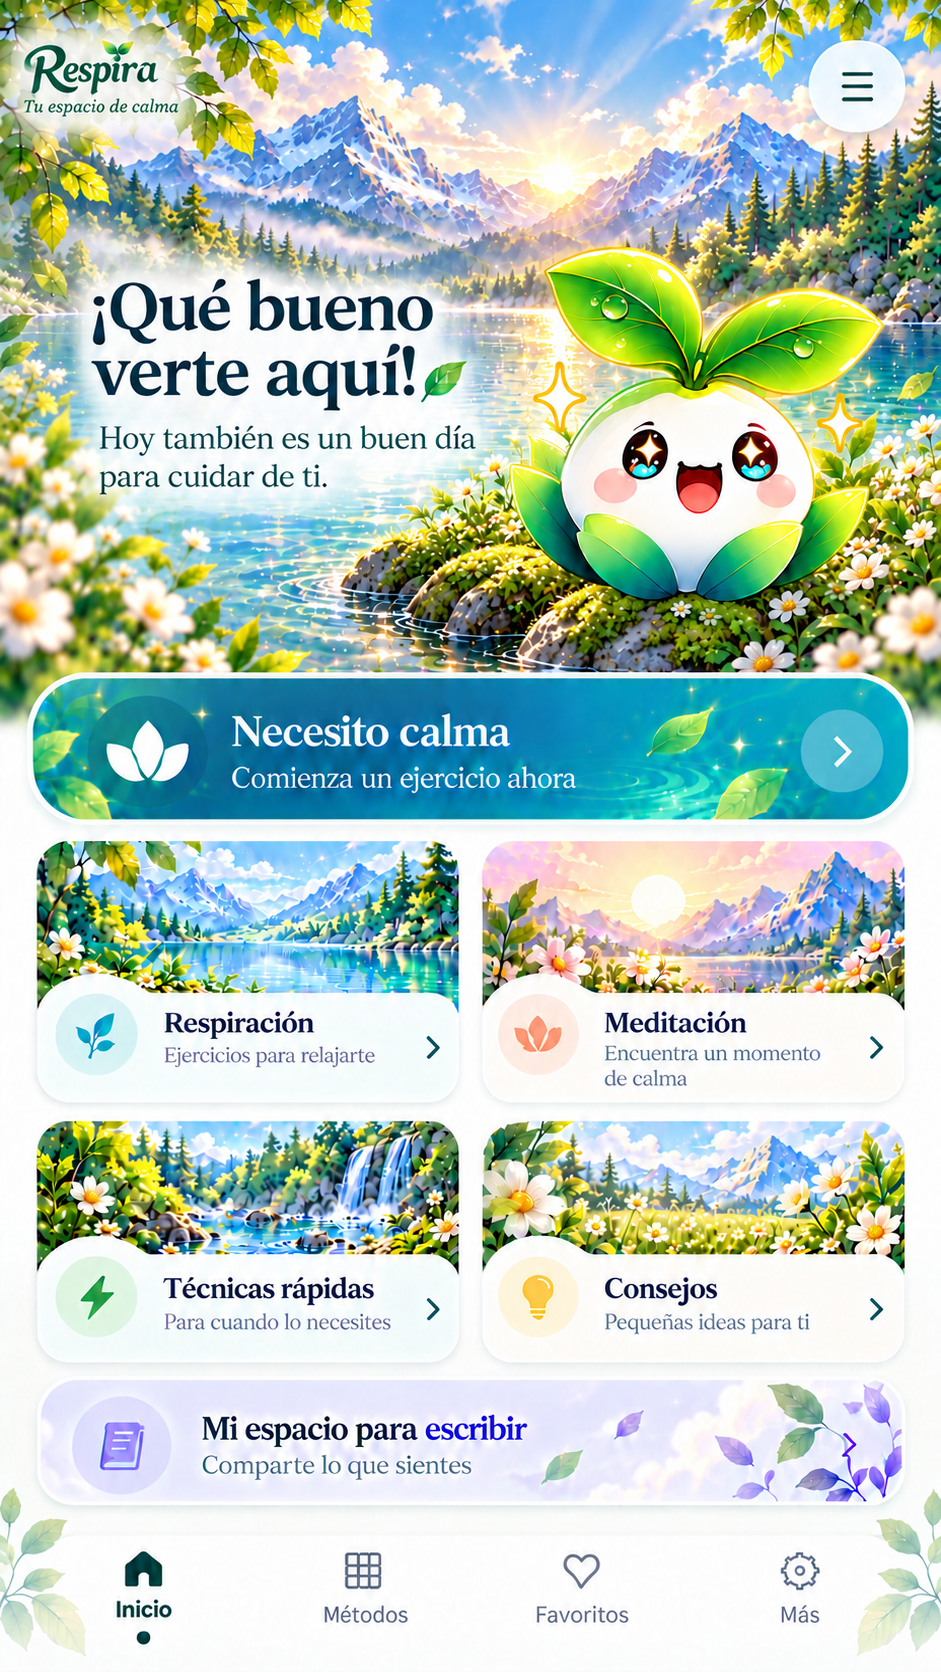
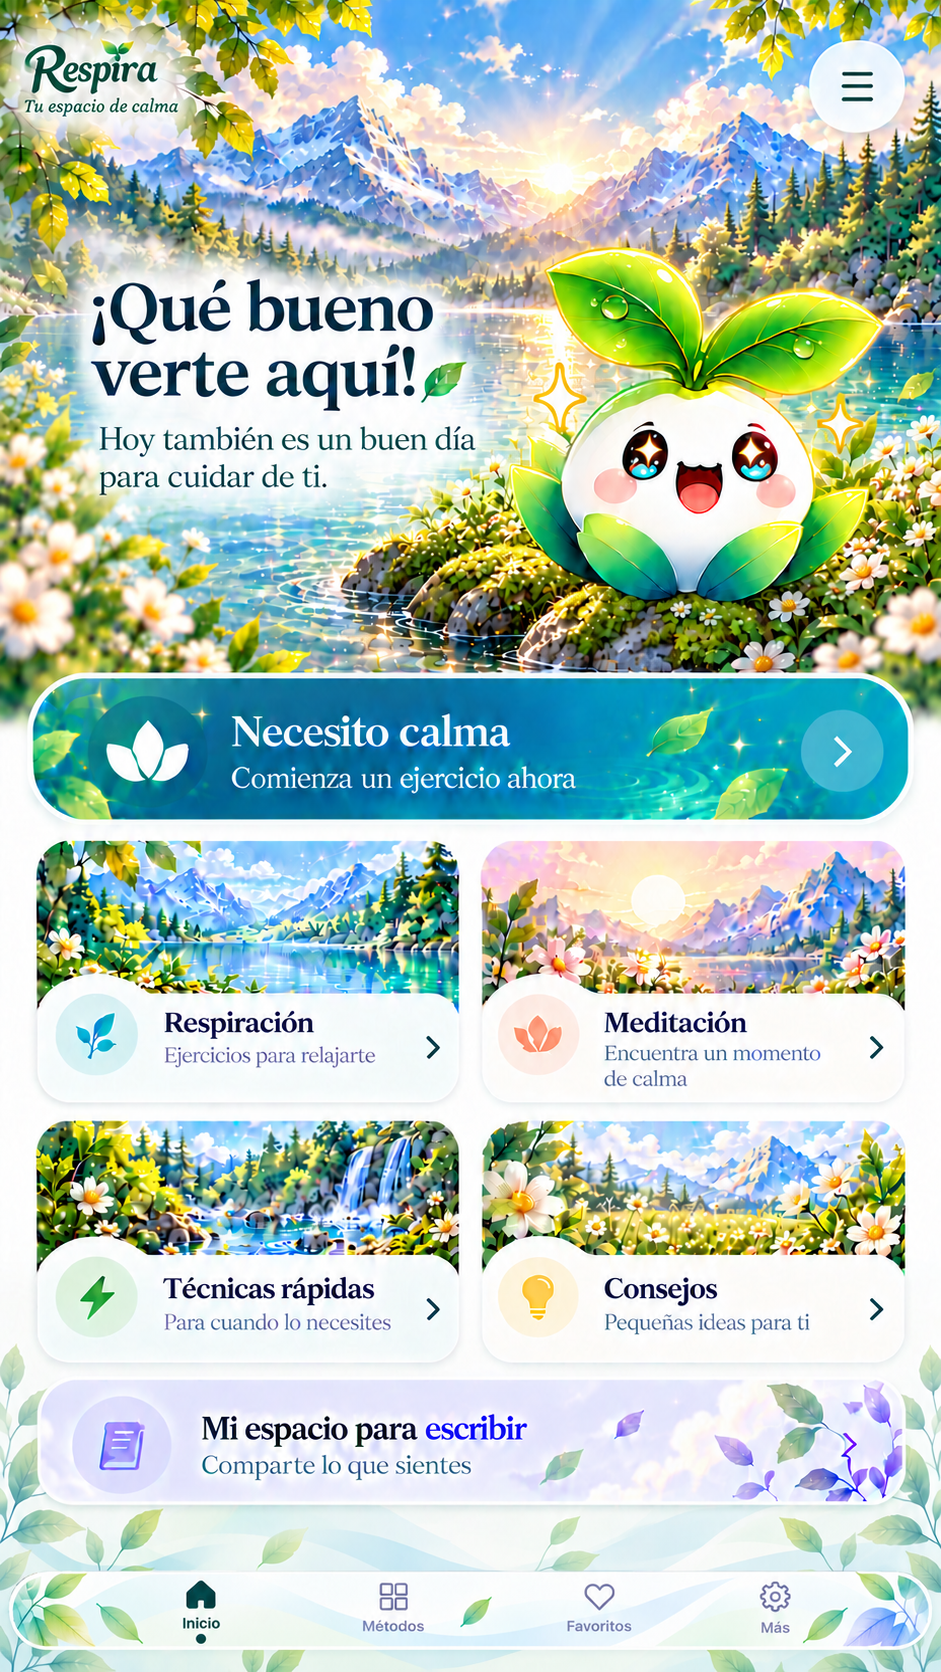
Respira v3.12

diff --git a/sw.js b/sw.js
@@ -1,5 +1,5 @@
-const CACHE='respira-3-12-nav-fija-esc-v1';
-const ASSETS=["./","./index.html","./style.css","./app.js","./manifest.webmanifest","./imagenes/portada/portada-aprobada.png","./imagenes/portada/hoja-izquierda.png","./imagenes/portada/hoja-derecha.png","./imagenes/seleccion/seleccion-aprobada.png","./imagenes/perfiles/brotecito.png","./imagenes/perfiles/nubecita.png","./imagenes/perfiles/lunita.png","./imagenes/perfiles/escena-brotecito.png","./imagenes/perfiles/escena-nubecita.png","./imagenes/perfiles/escena-lunita.png","./imagenes/inicio/brotecito.png","./imagenes/inicio/nubecita.png","./imagenes/inicio/lunita.png","./imagenes/inicio/sin-compania.png","./imagenes/inicio/fondo-inferior.webp","./imagenes/inicio/tarjeta-respiracion.png","./imagenes/inicio/tarjeta-meditacion.png","./imagenes/inicio/tarjeta-tecnicas.png","./imagenes/inicio/tarjeta-consejos.png","./imagenes/inicio/paisaje-sin-compania.svg","./imagenes/inicio/logo.svg","./iconos/icon-192.png","./iconos/icon-512.png","./imagenes/mascotas/brotecito.png","./imagenes/mascotas/nubecita.png","./imagenes/mascotas/lunita.png"];
+const CACHE='respira-3-13-inicio-barras-v1';
+const ASSETS=["./","./index.html","./style.css","./app.js","./manifest.webmanifest","./imagenes/portada/portada-aprobada.png","./imagenes/portada/hoja-izquierda.png","./imagenes/portada/hoja-derecha.png","./imagenes/seleccion/seleccion-aprobada.png","./imagenes/perfiles/brotecito.png","./imagenes/perfiles/nubecita.png","./imagenes/perfiles/lunita.png","./imagenes/perfiles/escena-brotecito.png","./imagenes/perfiles/escena-nubecita.png","./imagenes/perfiles/escena-lunita.png","./imagenes/navegacion/home.png","./imagenes/navegacion/methods.png","./imagenes/navegacion/favorites.png","./imagenes/navegacion/more.png","./imagenes/inicio/brotecito.png","./imagenes/inicio/nubecita.png","./imagenes/inicio/lunita.png","./imagenes/inicio/sin-compania.png","./imagenes/inicio/fondo-inferior.webp","./imagenes/inicio/tarjeta-respiracion.png","./imagenes/inicio/tarjeta-meditacion.png","./imagenes/inicio/tarjeta-tecnicas.png","./imagenes/inicio/tarjeta-consejos.png","./imagenes/inicio/paisaje-sin-compania.svg","./imagenes/inicio/logo.svg","./iconos/icon-192.png","./iconos/icon-512.png","./imagenes/mascotas/brotecito.png","./imagenes/mascotas/nubecita.png","./imagenes/mascotas/lunita.png"];
 self.addEventListener('install',e=>{e.waitUntil(caches.open(CACHE).then(c=>c.addAll(ASSETS)).then(()=>self.skipWaiting()))});
 self.addEventListener('activate',e=>{e.waitUntil(caches.keys().then(ns=>Promise.all(ns.filter(n=>n!==CACHE).map(n=>caches.delete(n)))).then(()=>self.clients.claim()))});
 self.addEventListener('fetch',e=>{if(e.request.method!=='GET'||new URL(e.request.url).origin!==self.location.origin)return;e.respondWith(caches.match(e.request).then(cached=>cached||fetch(e.request).then(resp=>{if(resp.ok){const cloned=resp.clone();caches.open(CACHE).then(c=>c.put(e.request,cloned))}return resp})))})

diff --git a/app.js b/app.js
@@ -79,7 +79,15 @@ document.addEventListener('keydown',event=>{
   navigate(prior.view,prior.activeId,true);
 });
 function backhead(title){return `<div class="backhead"><button class="iconbtn" data-go="methods" aria-label="Volver">‹</button><strong>${safe(title)}</strong></div>`}
-function bottom(active){return `<nav class="bottomnav" aria-label="Navegación principal">${[['home','⌂','Inicio'],['methods','▦','Métodos'],['favorites','♡','Favoritos'],['more','···','Más']].map(([id,ic,t])=>`<button class="navitem ${active===id?'active':''}" data-go="${id}" ${active===id?'aria-current="page"':''}><span class="navicon">${ic}</span>${t}</button>`).join('')}</nav>`}
+function bottom(active){
+  // Cuatro imágenes oficiales: mismo diseño, solo cambia la sección resaltada.
+  const tabs=[['home','Inicio'],['methods','Métodos'],['favorites','Favoritos'],['more','Más']];
+  const selected=['home','methods','favorites','more'].includes(active)?active:'home';
+  return `<nav class="bottomnav respira-tabbar" aria-label="Navegación principal">
+    <img class="respira-tabbar-image" src="./imagenes/navegacion/${selected}.png" alt="" aria-hidden="true" draggable="false">
+    ${tabs.map(([id,label])=>`<button type="button" class="navitem ${id===selected?'active':''}" data-go="${id}" aria-label="${label}" ${id===selected?'aria-current="page"':''}><span class="sr-only">${label}</span></button>`).join('')}
+  </nav>`;
+}
 function item(id){const x=catalog[id],fav=getStore('favorites',[]).includes(id);return `<div class="listbtn" style="cursor:default"><button class="round" data-open="${id}" aria-label="Abrir ${safe(x.title)}" style="border:0;background:var(--unused,#e6f7fc)">${x.emoji}</button><button class="copy" data-open="${id}" style="border:0;background:none;text-align:left;color:inherit;padding:0"><strong>${safe(x.title)}</strong><small>${safe(x.sub)}</small></button><button class="iconbtn ${fav?'heart':''}" data-fav="${id}" aria-label="${fav?'Quitar de':'Añadir a'} favoritos: ${safe(x.title)}">${fav?'♥':'♡'}</button><button class="iconbtn" data-open="${id}" aria-label="Abrir">›</button></div>`}
 function render(){let html='';
 if(view==='welcome'){
@@ -117,7 +125,7 @@ if(view==='home'){
     ['home40-nav-favorites','data-go="favorites"','Favoritos'],
     ['home40-nav-more','data-go="more"','Más opciones']
   ];
-  html=`<main class="home40-page" aria-label="Inicio de Respira${cp?`, con ${safe(pets[cp].name)}`:', sin mascota elegida'}">
+  html=`<main class="home40-page ${cp?'home40-haspet':'home40-nopet'}" aria-label="Inicio de Respira${cp?`, con ${safe(pets[cp].name)}`:', sin mascota elegida'}">
     <div class="home40-artboard">
       <img class="home40-art" src="${homeImage}" width="941" height="1672" alt="" aria-hidden="true" draggable="false" fetchpriority="high">
       <h1 class="sr-only">¡Qué bueno verte aquí! Hoy también es un buen día para cuidar de ti.</h1>

diff --git a/style.css b/style.css
@@ -1028,3 +1028,53 @@ body:has(.app.welcome-mode) {
 @media(min-width:700px){
   .home40-navdock,.bottomnav{bottom:0}
 }
+
+/* RESPIRA 3.13 — ÚNICAMENTE integrar las cuatro pantallas y las cuatro barras
+   aprobadas. Las ilustraciones se usan íntegras, sin redibujar ni recomprimir. */
+.home40-page.home40-nopet .home40-choose{
+  left:51.0%;top:20.6%;width:47.8%;height:9.3%;border-radius:999px;
+}
+/* La versión sin mascota sitúa sus botones más arriba que las otras tres.
+   Ajustar el mapa táctil no cambia su imagen ni su composición. */
+.home40-page.home40-nopet .home40-calm{top:36.3%;height:8.6%}
+.home40-page.home40-nopet .home40-breath,
+.home40-page.home40-nopet .home40-meditation{top:45.4%;height:15.3%}
+.home40-page.home40-nopet .home40-quick,
+.home40-page.home40-nopet .home40-advice{top:61.8%;height:14.8%}
+.home40-page.home40-nopet .home40-diary{top:77.35%;height:8%}
+/* Áreas de los cuatro accesos, alineadas con sus centros visibles. */
+.home40-nav-home{left:9%;width:22%}
+.home40-nav-methods{left:31%;width:21%}
+.home40-nav-favorites{left:52.5%;width:21%}
+.home40-nav-more{left:74%;width:21%}
+/* Las otras secciones usan las cuatro barras aprobadas, con toques HTML
+   independientes en vez de una imagen inerte. */
+.bottomnav.respira-tabbar{
+  position:fixed;z-index:30;left:50%;bottom:0;
+  transform:translateX(-50%);width:100%;max-width:560px;
+  height:calc(clamp(64px,17.43vw,93px) + env(safe-area-inset-bottom,0px));
+  display:block;padding:0;border:0;background:#f9fdfb;
+  border-radius:0;isolation:isolate;overflow:hidden;
+}
+.bottomnav.respira-tabbar .respira-tabbar-image{
+  position:absolute;left:0;top:0;display:block;width:100%;
+  height:calc(100% - env(safe-area-inset-bottom,0px));
+  object-fit:fill;pointer-events:none;user-select:none;-webkit-user-drag:none;
+}
+.bottomnav.respira-tabbar .navitem{
+  position:absolute;top:0;z-index:2;height:calc(100% - env(safe-area-inset-bottom,0px));
+  min-width:0;margin:0;padding:0;border:0;background:none;color:transparent;
+  border-radius:12px;cursor:pointer;touch-action:manipulation;
+}
+.bottomnav.respira-tabbar .navitem:nth-of-type(1){left:9%;width:22%}
+.bottomnav.respira-tabbar .navitem:nth-of-type(2){left:31%;width:21%}
+.bottomnav.respira-tabbar .navitem:nth-of-type(3){left:52.5%;width:21%}
+.bottomnav.respira-tabbar .navitem:nth-of-type(4){left:74%;width:21%}
+.bottomnav.respira-tabbar .navitem:focus-visible,
+.home40-navdock .home40-navhit:focus-visible{
+  outline:3px solid #136875;outline-offset:-4px;background:#e1fff41c;
+}
+.app:has(.bottomnav.respira-tabbar){padding-bottom:calc(80px + env(safe-area-inset-bottom,0px))}
+@media (min-width:700px){
+  .bottomnav.respira-tabbar{bottom:0;border-radius:25px 25px 0 0}
+}

diff --git a/index.html b/index.html
@@ -10,11 +10,11 @@
   <link rel="manifest" href="./manifest.webmanifest">
   <link rel="icon" href="./iconos/icon-192.png" type="image/png">
   <link rel="apple-touch-icon" href="./iconos/icon-192.png">
-  <link rel="stylesheet" href="./style.css?v=respira-3-12-nav-esc">
+  <link rel="stylesheet" href="./style.css?v=respira-3-13-grafica-aprobada">
   <title>Respira · Tu espacio de calma</title>
 </head>
 <body>
   <div id="app" class="app" aria-live="polite"></div>
-  <script src="./app.js?v=respira-3-12-nav-esc" defer></script>
+  <script src="./app.js?v=respira-3-13-grafica-aprobada" defer></script>
 </body>
 </html>
